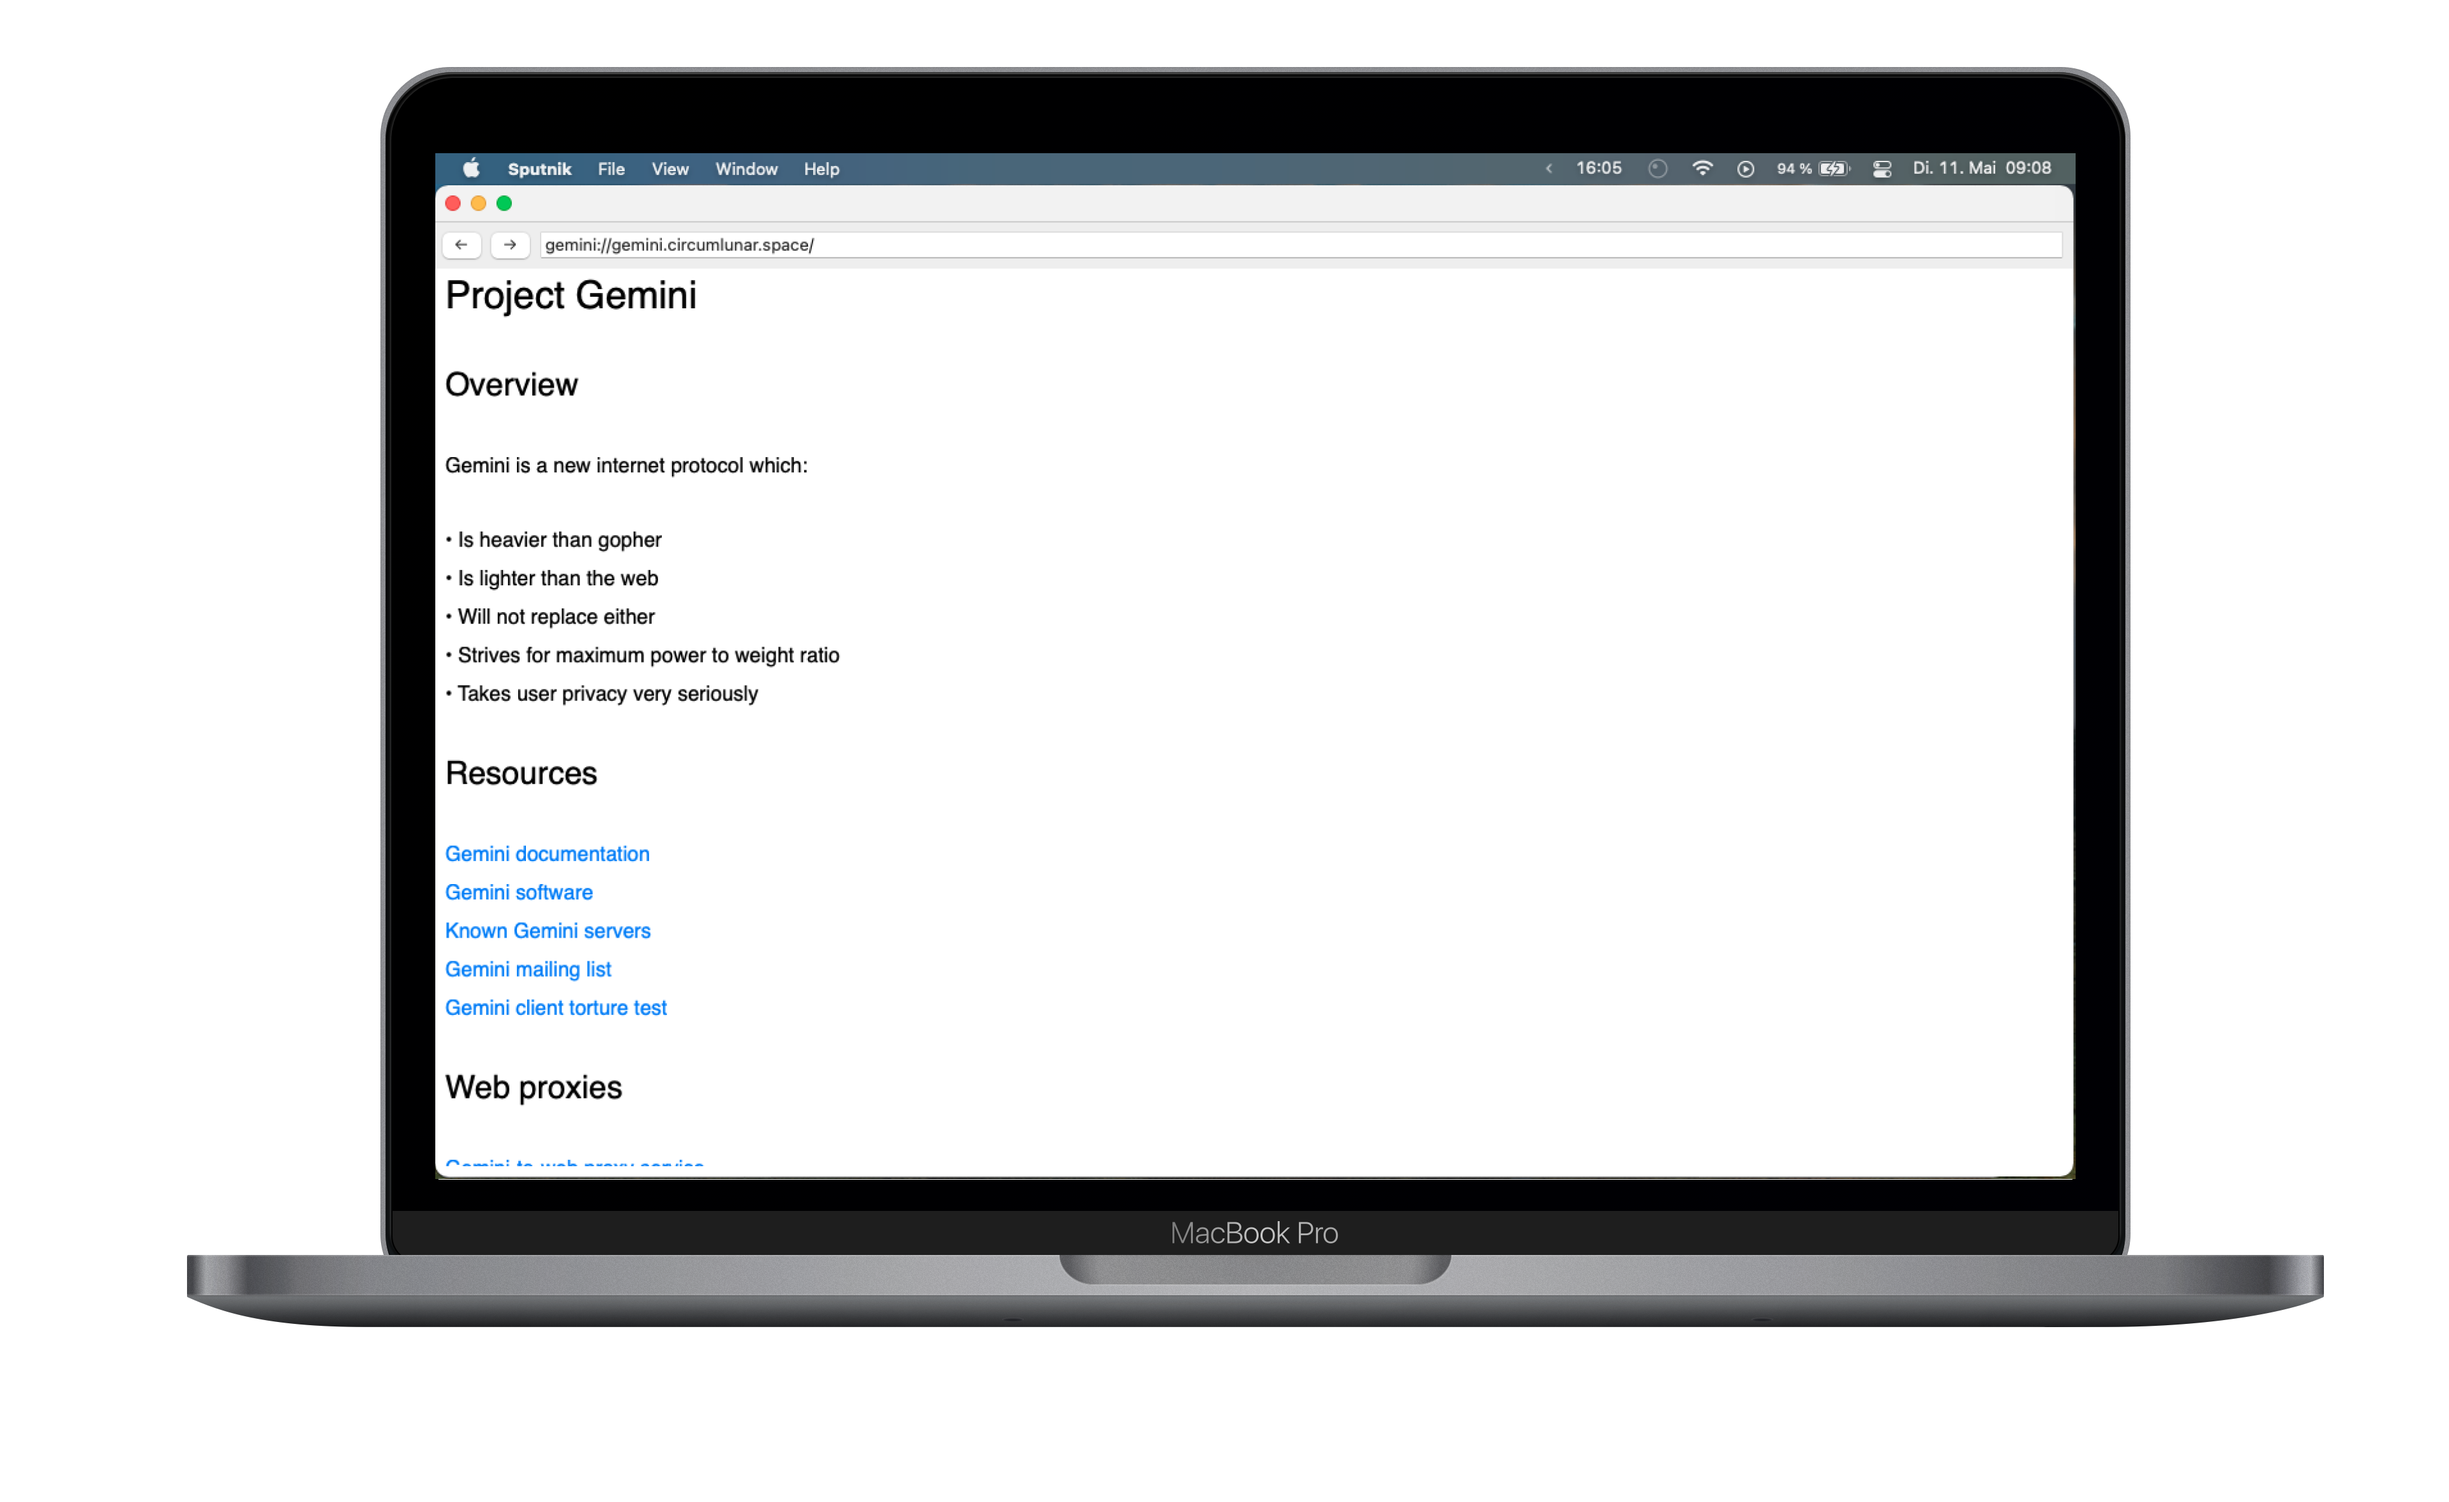
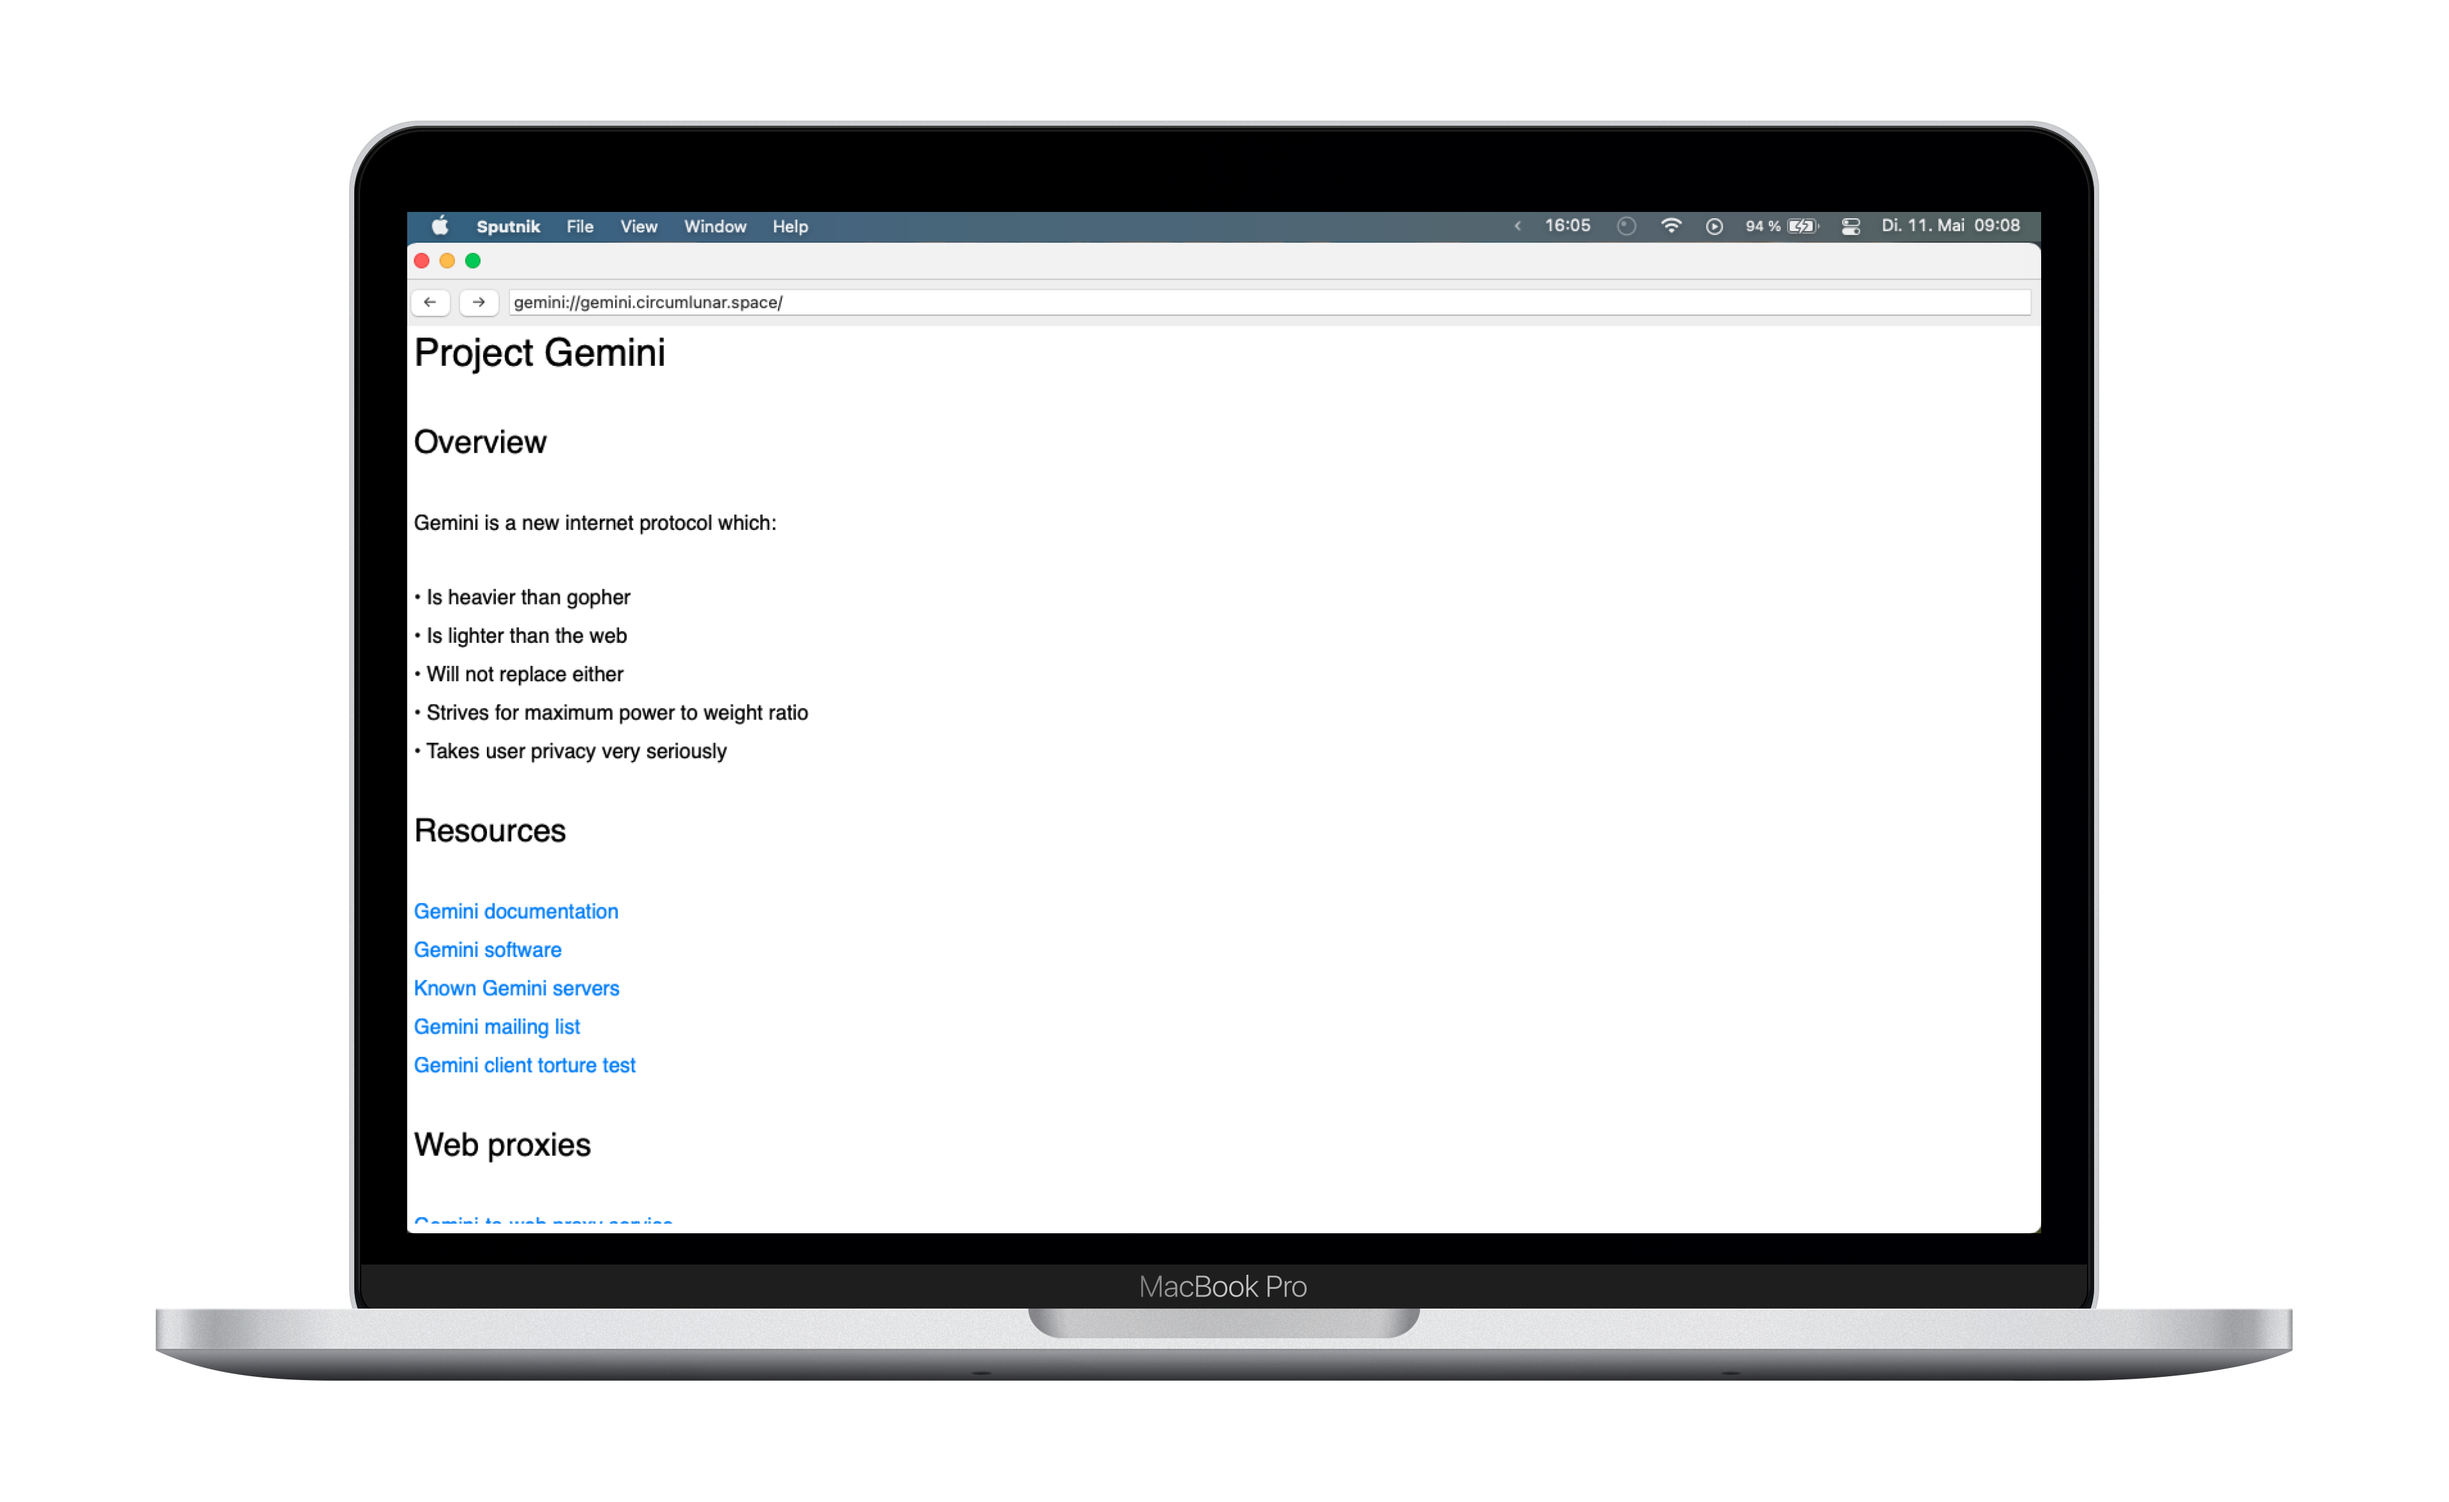
🌔 add darkmode to landingpage

Changed region(s): [[0.062, 0.031, 0.9614, 0.9307]]

diff --git a/docs/_includes/_nav.html b/docs/_includes/_nav.html
@@ -3,5 +3,5 @@
         <img src="/assets/img/logo.svg" class="w-12 h-12 lg:h-16 lg:w-16" />
         <h3 class="hidden font-mono font-light leading-relaxed lg:inline-block lg:pl-2 lg:text-xl xl:text-2xl">Sputnik</h3>
     </a>
-    <a href="https://github.com/DealPete/Sputnik"><svg xmlns="http://www.w3.org/2000/svg" class="text-gray-900 stroke-current" width="24" height="24" stroke-width="2" fill="none" stroke-linecap="round" stroke-linejoin="round"><path d="M0 0h24v24H0z" stroke="none"/><path d="M9 19c-4.3 1.4-4.3-2.5-6-3m12 5v-3.5c0-1 .1-1.4-.5-2 2.8-.3 5.5-1.4 5.5-6a4.6 4.6 0 00-1.3-3.2 4.2 4.2 0 00-.1-3.2s-1.1-.3-3.5 1.3a12.3 12.3 0 00-6.2 0C6.5 2.8 5.4 3.1 5.4 3.1a4.2 4.2 0 00-.1 3.2A4.6 4.6 0 004 9.5c0 4.6 2.7 5.7 5.5 6-.6.6-.6 1.2-.5 2V21"/></svg></a>
+    <a href="https://github.com/DealPete/Sputnik" target="_blank" rel="noopener"><svg xmlns="http://www.w3.org/2000/svg" class="text-gray-900 stroke-current dark:text-white" width="24" height="24" stroke-width="2" fill="none" stroke-linecap="round" stroke-linejoin="round"><path d="M0 0h24v24H0z" stroke="none"/><path d="M9 19c-4.3 1.4-4.3-2.5-6-3m12 5v-3.5c0-1 .1-1.4-.5-2 2.8-.3 5.5-1.4 5.5-6a4.6 4.6 0 00-1.3-3.2 4.2 4.2 0 00-.1-3.2s-1.1-.3-3.5 1.3a12.3 12.3 0 00-6.2 0C6.5 2.8 5.4 3.1 5.4 3.1a4.2 4.2 0 00-.1 3.2A4.6 4.6 0 004 9.5c0 4.6 2.7 5.7 5.5 6-.6.6-.6 1.2-.5 2V21"/></svg></a>
 </nav>

diff --git a/docs/index.html b/docs/index.html
@@ -4,8 +4,9 @@ title: "Home"
 ---
 
 <main class="flex flex-col items-center">
-    <h1 class="font-mono text-lg font-medium text-center text-gray-900 md:text-2xl lg:text-4xl xl:text-5xl 2xl:text-6xl">Sputnik</h1>
-    <h3 class="font-mono text-center text-gray-800 md:text-lg lg:text-xl xl:text-2xl 2xl:text-3xl">A gemini browser for macOS</h3>
+    <h1 class="font-mono text-lg font-medium text-center text-gray-900 dark:text-white md:text-2xl lg:text-4xl xl:text-5xl 2xl:text-6xl">Sputnik</h1>
+    <h3 class="font-mono text-center text-gray-800 dark:text-gray-50 md:text-lg lg:text-xl xl:text-2xl 2xl:text-3xl">A gemini browser for macOS</h3>
     
-    <img src="/assets/img/Sputnik-Light-Mockup.png" class="w-5/6" />
+    <img src="/assets/img/Sputnik-light-mockup.png" alt="Sputnik mockup" class="w-5/6 dark:bg-gray-900 dark:hidden" />
+    <img src="/assets/img/Sputnik-dark-mockup.png" alt="Sputnik mockup" class="w-5/6 dark:bg-gray-900" id="dark-mockup" />
 </main>

diff --git a/docs/_includes/_footer.html b/docs/_includes/_footer.html
@@ -1,3 +1,3 @@
-<footer class="flex justify-center w-full py-2 space-x-1 text-gray-900 xl:py-3">
+<footer class="flex justify-center w-full py-2 space-x-1 text-gray-900 dark:text-gray-50 xl:py-3">
     <span>&copy; 2021</span> <a href="https://github.com/DealPete/Sputnik/graphs/contributors" class="underline">Sputnik Contributors</a>
 </footer>

diff --git a/docs/tailwind.config.js b/docs/tailwind.config.js
@@ -5,10 +5,14 @@ module.exports = {
     "./_posts/*.md",
     "./*.html",
   ],
-  darkMode: false,
+  darkMode: "media",
   theme: {
     extend: {},
   },
-  variants: {},
+  variants: {
+    extend: {
+      display: ["dark"],
+    },
+  },
   plugins: [require("@tailwindcss/typography")],
 };

diff --git a/docs/_layouts/default.html b/docs/_layouts/default.html
@@ -13,7 +13,7 @@
 
     <title>Sputnik | {{ page.title }}</title>
   </head>
-  <body class="w-screen">
+  <body class="w-screen dark:bg-gray-900 dark:text-white">
     {% include _nav.html %}
       <div class="min-h-screen p-2 md:p-5 lg:p-0 lg:w-4/5 lg:mx-auto">
         {{ content }}

diff --git a/docs/assets/css/styles.css b/docs/assets/css/styles.css
@@ -4,3 +4,13 @@
 @import "tailwindcss/base";
 @import "tailwindcss/components";
 @import "tailwindcss/utilities";
+
+img#dark-mockup {
+  display: none;
+}
+
+@media (prefers-color-scheme: dark) {
+  img#dark-mockup {
+    display: block;
+  }
+}
